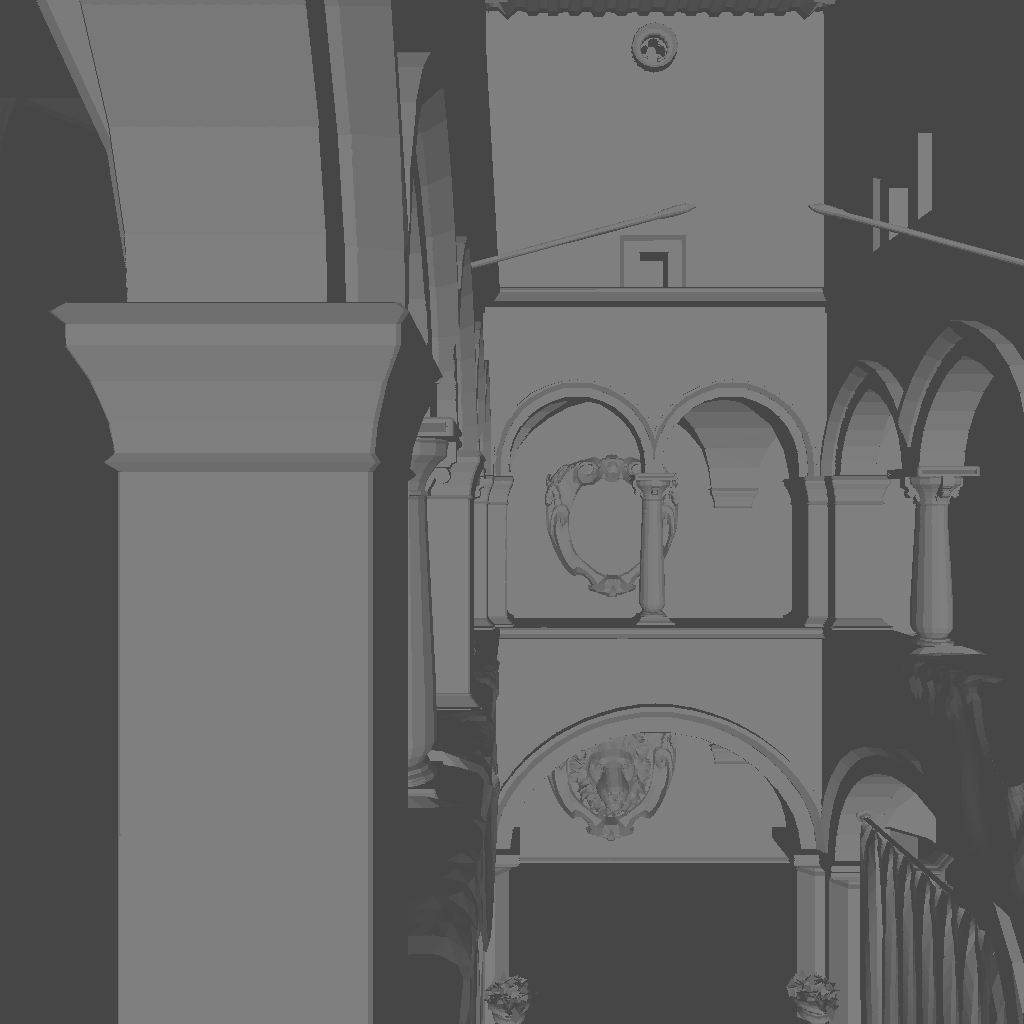
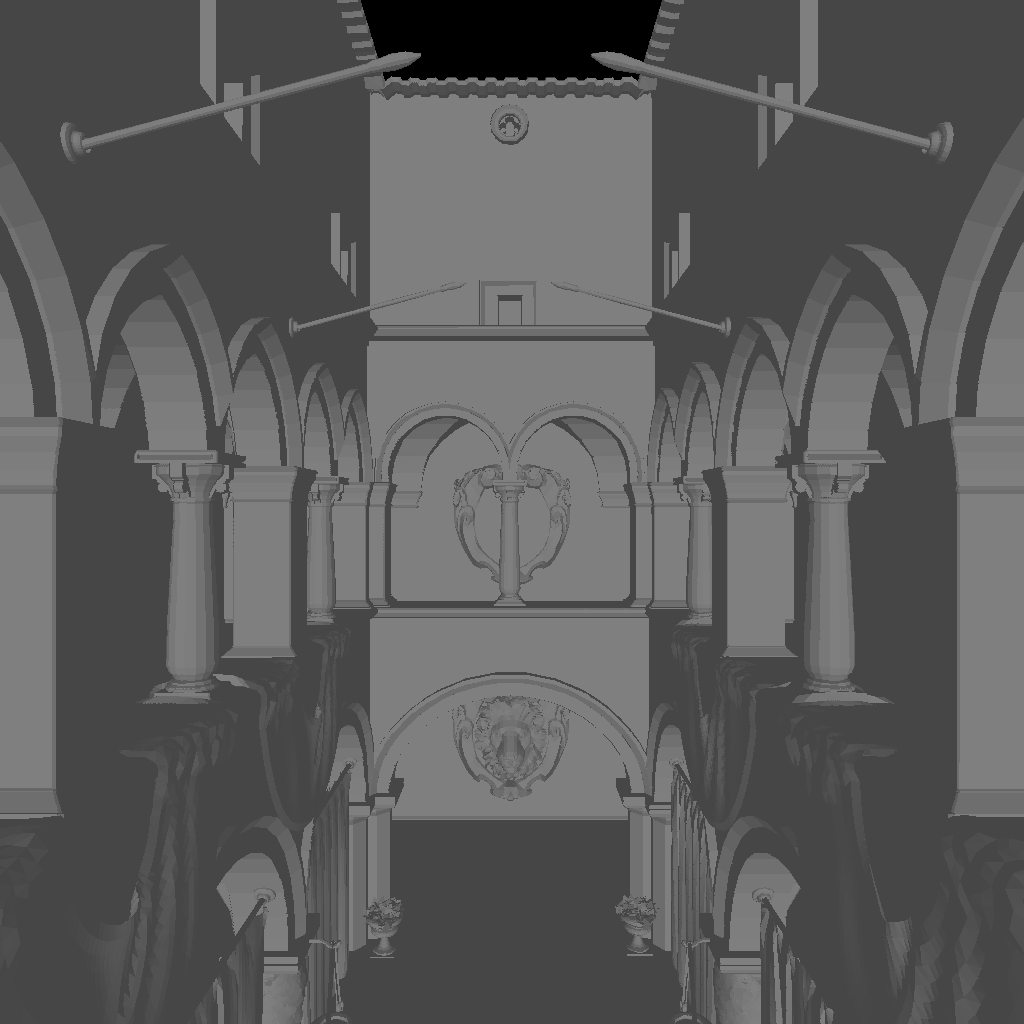
feat: 补全视锥裁剪（四条侧边），经典扫描线在 Sponza 上终于可用
一、视锥裁剪分两步做，因为两步需要的信息不同
· 近平面在裁剪空间裁：本工程齐次坐标的 w 就是 z_cam，判据只跟 w 有关（w <= -near）；
  用 Sutherland-Hodgman 裁一刀，最多得到 4 个顶点。
· 四条侧边在屏幕空间裁：这里有个坑 —— 本工程把【视口变换也乘进了 MVP】，
  所以 x_clip / w 已经是 [0,W]x[0,H] 的像素坐标、不是 NDC，不能照搬「NDC 落在 [-1,1]」
  去写 x = ±w 的判据（第一版就是这么写错的，结果整屏全黑）。直接在屏幕空间对
  x ∈ [0,W]、y ∈ [0,H] 各裁一刀即可；投影后三角形在屏幕上的投影仍是三角形、
  深度仍是屏幕坐标的线性函数，所以这样裁是精确的。

裁完按扇形三角化成最多 6 个三角形（tri 缓冲区开 24）。

二、Sponza 结果（相机沿 -x 看向长廊，与使用者调整后的场景参数一致）

  算法                 渲染(ms)   建结构(ms)  总(ms)
  普通 Z-Buffer          170.44       —        170.44
  经典扫描线              30.67     26.70       57.36
  特化扫描线              40.42       —         40.42
  简单模式                63.80      0.20       64.00
  完整模式（BVH）         85.95     75.45      161.60
  完整模式（八叉树）      77.04     25.42      102.63

经典扫描线的变化最能说明问题：
  最初（无裁剪）      43 903.3 ms，输出整屏纯色（1 种颜色），与普通 Z-Buffer 差 99.6%
  只裁近平面           3 394.8 ms，仍整屏纯色
  完整视锥裁剪            30.67 ms，59 种颜色，与普通 Z-Buffer 只差 5.55%
  对比最初快了 1432 倍，而且是全场最快的扫描线实现（比简单模式的 63.80 ms 还快）。

六个算法的输出现在彼此一致（差异 5.55% ~ 6.26%，属正常的边界/并列仲裁差异）。

三、自带模型完全不受影响
36 张结果与金标准逐字节一致 —— 自带模型都落在视锥内，裁剪对它们是恒等变换。
这也让这次改动非常容易验证。

验证：verify.sh（与独立金标准比对）36/36；MSBuild Release|x64 通过。

diff --git a/src/model.cpp b/src/model.cpp
@@ -118,46 +118,102 @@ void Model::getMVPFace(int i, glm::vec3 face[3]) const {
 	face[2] = m_mvpVertices[m_faces[i][2]];
 }
 
-int Model::getClippedFace(int i, const glm::mat4& mvp, float nearDistance, glm::vec3 out[4]) const {
-	glm::vec4 clip[3];
-	for (int j = 0; j < 3; j++) {
-		clip[j] = glm::vec4(m_vertices[m_faces[i][j]], 1.0f) * mvp;
-	}
-	//Sutherland-Hodgman：保留 w <= -nearDistance 的那一侧（w 就是 z_cam）
-	const float plane = -nearDistance;
-	glm::vec4 poly[8];
-	int count = 0;
-	for (int j = 0; j < 3; j++) {
-		const glm::vec4& cur = clip[j];
-		const glm::vec4& next = clip[(j + 1) % 3];
-		const bool curIn = cur.w <= plane;
-		const bool nextIn = next.w <= plane;
+/*! @brief 用半空间 dot(normal, v) + offset >= 0 裁剪一个凸多边形
+ *  @return 裁剪后的顶点数
+ */
+static int clipHalfSpace(glm::vec4* poly, int count, const glm::vec4& normal, float offset) {
+	glm::vec4 out[16];
+	int n = 0;
+	for (int j = 0; j < count; j++) {
+		const glm::vec4& cur = poly[j];
+		const glm::vec4& next = poly[(j + 1) % count];
+		const float curDistance = glm::dot(normal, cur) + offset;
+		const float nextDistance = glm::dot(normal, next) + offset;
+		const bool curIn = curDistance >= 0.0f;
+		const bool nextIn = nextDistance >= 0.0f;
 		if (curIn) {
-			poly[count++] = cur;
+			out[n++] = cur;
 		}
 		if (curIn != nextIn) {
-			const float t = (plane - cur.w) / (next.w - cur.w);
-			poly[count++] = cur + t * (next - cur);
+			out[n++] = cur + (curDistance / (curDistance - nextDistance)) * (next - cur);
 		}
 	}
+	for (int j = 0; j < n; j++) {
+		poly[j] = out[j];
+	}
+	return n;
+}
+
+/*! @brief 用屏幕空间的一条边裁剪凸多边形：axis 为 0 表示 x、1 表示 y
+ *
+ *  投影之后三角形在屏幕上的投影仍是三角形，深度也仍然是屏幕坐标的线性函数，
+ *  所以这里对 (x, y) 线性裁剪、z 一起线性插值，结果与在裁剪空间里裁等价且精确。
+ *  @return 裁剪后的顶点数
+ */
+static int clipScreenHalfSpace(glm::vec3* poly, int count, int axis, float bound, bool keepGreater) {
+	glm::vec3 out[16];
+	int n = 0;
+	for (int j = 0; j < count; j++) {
+		const glm::vec3& cur = poly[j];
+		const glm::vec3& next = poly[(j + 1) % count];
+		const float curDistance = keepGreater ? (cur[axis] - bound) : (bound - cur[axis]);
+		const float nextDistance = keepGreater ? (next[axis] - bound) : (bound - next[axis]);
+		const bool curIn = curDistance >= 0.0f;
+		const bool nextIn = nextDistance >= 0.0f;
+		if (curIn) {
+			out[n++] = cur;
+		}
+		if (curIn != nextIn) {
+			out[n++] = cur + (curDistance / (curDistance - nextDistance)) * (next - cur);
+		}
+	}
+	for (int j = 0; j < n; j++) {
+		poly[j] = out[j];
+	}
+	return n;
+}
+
+int Model::getClippedFace(int i, const glm::mat4& mvp, float nearDistance, float screenWidth, float screenHeight, glm::vec3 out[8]) const {
+	glm::vec4 poly[8];
+	for (int j = 0; j < 3; j++) {
+		poly[j] = glm::vec4(m_vertices[m_faces[i][j]], 1.0f) * mvp;
+	}
+	//第一步：近平面。本工程里齐次坐标的 w 就是 z_cam，所以判据只跟 w 有关：
+	//  w <= -nearDistance  <=>  -w - nearDistance >= 0
+	int count = clipHalfSpace(poly, 3, glm::vec4(0.0f, 0.0f, 0.0f, -1.0f), -nearDistance);
+	if (count < 3) return 0;
+	//第二步：透视除法得到屏幕像素坐标。注意视口变换也乘在 mvp 里，所以这里得到的就是
+	//[0,W]x[0,H] 的像素坐标，不是 NDC —— 不能再按 x = ±w 去写侧平面的判据。
 	for (int j = 0; j < count; j++) {
 		out[j] = glm::vec3(poly[j]) / poly[j].w;
 	}
+	//第三步：把屏幕矩形四条边裁掉
+	count = clipScreenHalfSpace(out, count, 0, 0.0f, true);
+	if (count < 3) return 0;
+	count = clipScreenHalfSpace(out, count, 0, screenWidth, false);
+	if (count < 3) return 0;
+	count = clipScreenHalfSpace(out, count, 1, 0.0f, true);
+	if (count < 3) return 0;
+	count = clipScreenHalfSpace(out, count, 1, screenHeight, false);
+	if (count < 3) return 0;
 	return count;
 }
 
-int Model::getClippedTriangles(int i, const glm::mat4& mvp, float nearDistance, glm::vec3 tri[6]) const {
-	glm::vec3 poly[4];
-	const int count = getClippedFace(i, mvp, nearDistance, poly);
+int Model::getClippedTriangles(int i, const glm::mat4& mvp, float nearDistance, float screenWidth, float screenHeight, glm::vec3 tri[24]) const {
+	glm::vec3 poly[8];
+	const int count = getClippedFace(i, mvp, nearDistance, screenWidth, screenHeight, poly);
 	if (count < 3) {
 		return 0;
 	}
-	tri[0] = poly[0]; tri[1] = poly[1]; tri[2] = poly[2];
-	if (count == 4) {
-		tri[3] = poly[0]; tri[4] = poly[2]; tri[5] = poly[3];
-		return 2;
+	//裁剪出来的是凸多边形，按扇形三角化
+	int triangles = 0;
+	for (int t = 1; t + 1 < count; t++) {
+		tri[triangles * 3] = poly[0];
+		tri[triangles * 3 + 1] = poly[t];
+		tri[triangles * 3 + 2] = poly[t + 1];
+		triangles++;
 	}
-	return 1;
+	return triangles;
 }
 
 void Model::mvpTransform(Scene& scene) {

diff --git a/src/model.hpp b/src/model.hpp
@@ -121,10 +121,11 @@ public:
 	 *  @param[in] i: 面的索引
 	 *  @param[in] mvp: 本帧的 MVP 矩阵（已含视口变换，除完 w 就是屏幕像素坐标）
 	 *  @param[in] nearDistance: 近平面离相机的距离（正值）
-	 *  @param[out] out: 裁剪后的多边形顶点，最多 4 个
+	 *  @param[in] screenWidth, screenHeight: 渲染窗口尺寸，用于裁掉屏幕矩形之外的部分
+	 *  @param[out] out: 裁剪后的多边形顶点，最多 8 个
 	 *  @return 多边形顶点数；小于 3 表示整张面都在近平面之内、被完全裁掉
 	 */
-	int getClippedFace(int i, const glm::mat4& mvp, float nearDistance, glm::vec3 out[4]) const;
+	int getClippedFace(int i, const glm::mat4& mvp, float nearDistance, float screenWidth, float screenHeight, glm::vec3 out[8]) const;
 	/*! @brief 把一张面裁剪并三角化成 0~2 个屏幕坐标的三角形
 	 *
 	 *  注意这里【不】对顶点 y 取整：扫描线类算法需要取整（否则共享边会算出不同的起始
@@ -134,10 +135,10 @@ public:
 	 *  @param[in] i: 面的索引
 	 *  @param[in] mvp: 本帧的 MVP 矩阵
 	 *  @param[in] nearDistance: 近平面离相机的距离（正值）
-	 *  @param[out] tri: 最多 2 个三角形、共 6 个顶点
+	 *  @param[out] tri: 最多 6 个三角形、共 18 个顶点（缓冲区开 24）
 	 *  @return 三角形个数（0 表示整张面被裁掉）
 	 */
-	int getClippedTriangles(int i, const glm::mat4& mvp, float nearDistance, glm::vec3 tri[6]) const;
+	int getClippedTriangles(int i, const glm::mat4& mvp, float nearDistance, float screenWidth, float screenHeight, glm::vec3 tri[24]) const;
 	/*! @brief 获取模型名称
 	 *  @return 模型名称
 	 */

diff --git a/src/scanlineZBuffer.cpp b/src/scanlineZBuffer.cpp
@@ -71,8 +71,8 @@ void ScanlineZBuffer::rasterizeScene(Model& model, Scene& scene) {
 			model.getFace(i, face);
 			glm::vec3 normal = glm::normalize(glm::cross(face[1] - face[0], face[2] - face[0]));
 			float diffuseIntensity = ambient + (1.0f - ambient) * glm::max(0.f, glm::dot(normal, lightDirection));
-			glm::vec3 tris[6];
-			const int triNum = model.getClippedTriangles(i, scene.getMVP(), scene.getNear(), tris);
+			glm::vec3 tris[24];
+			const int triNum = model.getClippedTriangles(i, scene.getMVP(), scene.getNear(), scene.getWidth(), scene.getHeight(), tris);
 			for (int t = 0; t < triNum; t++) {
 				glm::vec3* tri = tris + t * 3;
 				for (int j = 0; j < 3; j++) {
@@ -232,14 +232,14 @@ void ScanlineZBuffer::generateTables(Model& model, Scene& scene) {
 	glm::vec3 lightDirection = scene.getLightDirection(), diffuseColor = scene.getDiffuseColor();
 	const float ambient = scene.getAmbient();
 	glm::vec3 face[3];
-	glm::vec3 tris[6];
+	glm::vec3 tris[24];
 	int triId = 0;
 	for (int i = 0; i < faceNum; i++) {
 		model.getFace(i, face);
 		glm::vec3 normal = glm::normalize(glm::cross(face[1] - face[0], face[2] - face[0]));
 		float diffuseIntensity = ambient + (1.0f - ambient) * glm::max(0.f, glm::dot(normal, lightDirection));
 		//投影 + 近平面裁剪；被裁成四边形时返回 2 个三角形
-		const int triNum = model.getClippedTriangles(i, scene.getMVP(), scene.getNear(), tris);
+		const int triNum = model.getClippedTriangles(i, scene.getMVP(), scene.getNear(), scene.getWidth(), scene.getHeight(), tris);
 		for (int t = 0; t < triNum; t++) {
 			glm::vec3* tri = tris + t * 3;
 			const int id = triId++;

diff --git a/src/hierarchicalZBuffer.cpp b/src/hierarchicalZBuffer.cpp
@@ -122,8 +122,8 @@ void HierarchicalZBuffer::rasterizeTriangles(const std::vector<int>& triangles, 
         model.getFace(*it, face);
         glm::vec3 normal = glm::normalize(glm::cross(face[1] - face[0], face[2] - face[0]));
         float diffuseIntensity = m_ambient + (1.0f - m_ambient) * glm::max(0.f, glm::dot(normal, lightDirection));
-        glm::vec3 tris[6];
-        const int triNum = model.getClippedTriangles(*it, m_mvp, m_nearDistance, tris);
+        glm::vec3 tris[24];
+        const int triNum = model.getClippedTriangles(*it, m_mvp, m_nearDistance, m_screenWidth, m_screenHeight, tris);
         for (int t = 0; t < triNum; t++) {
             glm::vec3* tri = tris + t * 3;
             for (int j = 0; j < 3; j++) {
@@ -274,6 +274,8 @@ void HierarchicalZBuffer::rasterizeScene(Model& model, Scene& scene) {
     glm::vec3 lightDirection = scene.getLightDirection(), diffuseColor = scene.getDiffuseColor();
     m_ambient = scene.getAmbient();
     m_nearDistance = scene.getNear();
+    m_screenWidth = static_cast<float>(scene.getWidth());
+    m_screenHeight = static_cast<float>(scene.getHeight());
     if (m_structure == SceneStructure::Octree) {
         const ScreenBounds sb = projectBounds(m_octree->bxmin, m_octree->bxmax, m_octree->bymin, m_octree->bymax, m_octree->bzmin, m_octree->bzmax, m_mvp);
         recursiveRasterizeOctree(m_octree, sb, m_pyramid.rootLevel(), 0, 0, model, lightDirection, diffuseColor);

diff --git a/src/basicZBuffer.cpp b/src/basicZBuffer.cpp
@@ -60,8 +60,8 @@ void BasicZBuffer::rasterizeScene(Model& model, Scene& scene) {
         glm::vec3 normal = glm::normalize(glm::cross(face[1] - face[0], face[2] - face[0]));
         float diffuseIntensity = ambient + (1.0f - ambient) * glm::max(0.f, glm::dot(normal, lightDirection));
         //投影 + 近平面裁剪；被裁成四边形时返回 2 个三角形
-        glm::vec3 tris[6];
-        const int triNum = model.getClippedTriangles(i, scene.getMVP(), scene.getNear(), tris);
+        glm::vec3 tris[24];
+        const int triNum = model.getClippedTriangles(i, scene.getMVP(), scene.getNear(), scene.getWidth(), scene.getHeight(), tris);
         for (int t = 0; t < triNum; t++) {
             rasterizeTriangle(tris + t * 3, diffuseColor * diffuseIntensity);
         }

diff --git a/src/basicHierarchicalZBuffer.cpp b/src/basicHierarchicalZBuffer.cpp
@@ -56,8 +56,8 @@ void BasicHierarchicalZBuffer::rasterizeScene(Model& model, Scene& scene) {
         model.getFace(i, face);
         glm::vec3 normal = glm::normalize(glm::cross(face[1] - face[0], face[2] - face[0]));
         float diffuseIntensity = ambient + (1.0f - ambient) * glm::max(0.f, glm::dot(normal, lightDirection));
-        glm::vec3 tris[6];
-        const int triNum = model.getClippedTriangles(i, scene.getMVP(), scene.getNear(), tris);
+        glm::vec3 tris[24];
+        const int triNum = model.getClippedTriangles(i, scene.getMVP(), scene.getNear(), scene.getWidth(), scene.getHeight(), tris);
         for (int t = 0; t < triNum; t++) {
             glm::vec3* tri = tris + t * 3;
             for (int j = 0; j < 3; j++) {

diff --git a/src/main.cpp b/src/main.cpp
@@ -63,7 +63,7 @@ static Scene defaultScene() {
  */
 static Scene::Config sponzaConfig() {
     Scene::Config config;
-    config.camera = glm::vec3(0.0f, 0.0f, 0.1f);
+    config.camera = glm::vec3(0.1f, 0.0f, 0.0f);
     config.eyeDirection = glm::vec3(-1.0f, 0.0f, 0.0f);
     config.lightDirection = glm::vec3(1.0f, 0.0f, 0.0f);
     config.nearPlane = -0.02f;

diff --git a/src/hierarchicalZBuffer.hpp b/src/hierarchicalZBuffer.hpp
@@ -177,6 +177,8 @@ private:
 	float m_ambient = 0.0f;
 	/*! @brief 本帧的近平面距离（正值），用于近平面裁剪 */
 	float m_nearDistance = 0.3f;
+	/*! @brief 本帧的渲染窗口尺寸，用于视锥裁剪 */
+	float m_screenWidth = 1024.0f, m_screenHeight = 1024.0f;
 
 	/*! @brief 渲染窗口宽度、高度 */
 	int m_width, m_height;
